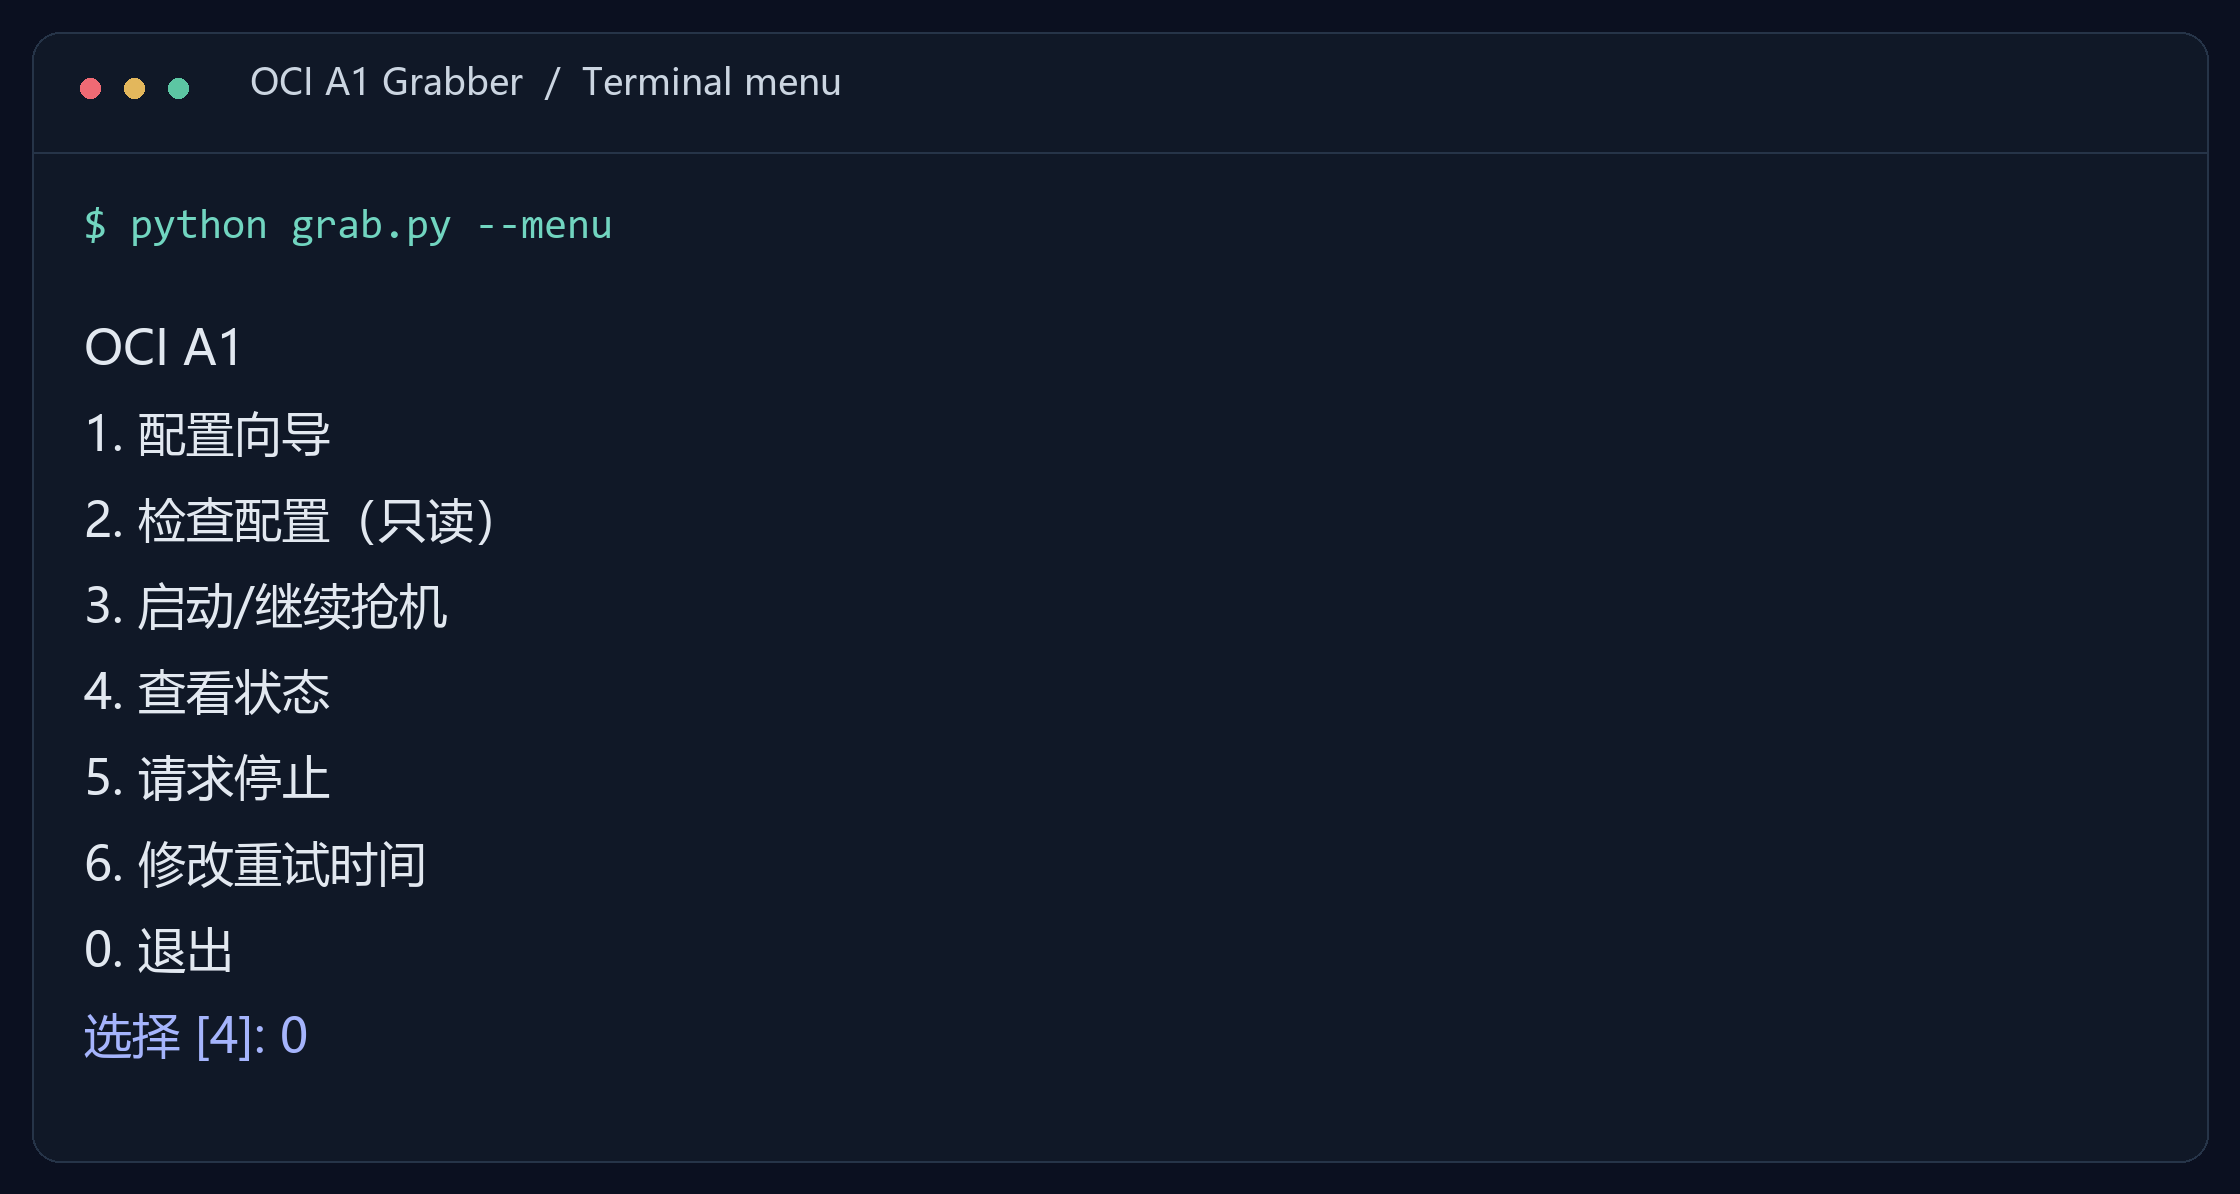
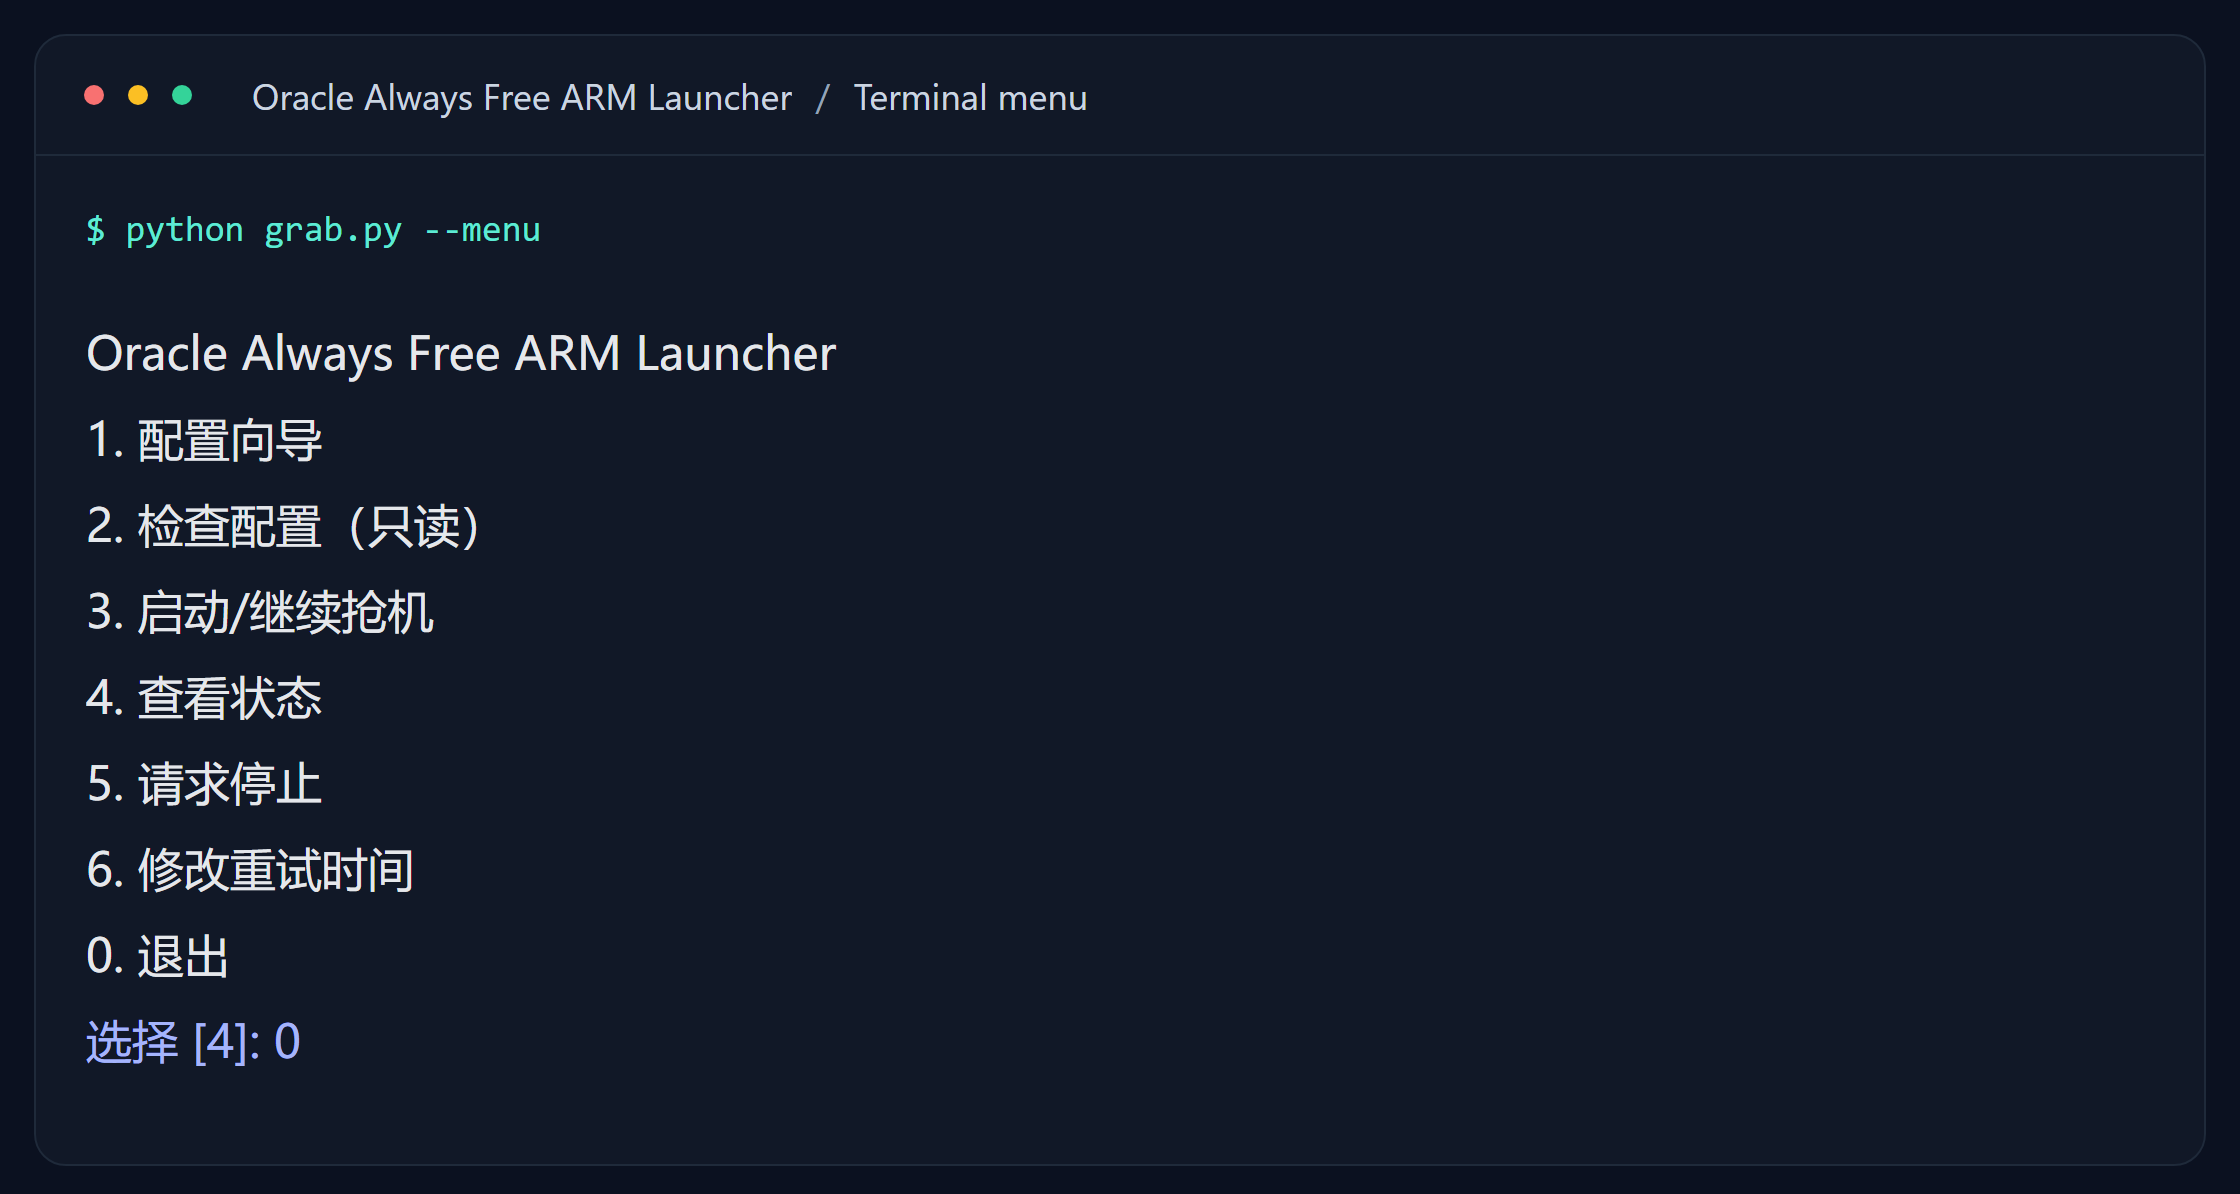
Show the new project name in the menu title and README screenshots

diff --git a/grab.py b/grab.py
@@ -2,7 +2,7 @@
 # SPDX-License-Identifier: Apache-2.0
 # Derived from Yohann0617/oci-helper, Copyright 2024 Yohann0617.
 # Modified: Python port of instance creation/retry logic; see NOTICE.txt.
-"""One-instance OCI A1 launcher. No AI, web server, database or telemetry."""
+"""Oracle Always Free ARM (Ampere A1) launcher: creates one instance. No AI, web server, database or telemetry."""
 from __future__ import annotations
 
 import argparse
@@ -540,7 +540,7 @@ def main(argv=None):
     for stream in (sys.stdout, sys.stderr):
         if hasattr(stream, "reconfigure"):
             stream.reconfigure(encoding="utf-8", errors="replace")
-    parser = argparse.ArgumentParser(description="精简 OCI A1 抢机：缺货重试，成功一台即停止，不调用 AI。")
+    parser = argparse.ArgumentParser(description="Oracle Always Free ARM 抢机：缺货重试，成功一台即停止，不调用 AI。")
     parser.add_argument("--config", default=str(Path(__file__).with_name("config.ini")))
     mode = parser.add_mutually_exclusive_group()
     mode.add_argument("--check", action="store_true", help="只读检查账户、网络、镜像和资源用量")

diff --git a/wizard.py b/wizard.py
@@ -236,7 +236,7 @@ def edit_timing(config_path):
 
 def menu(config_path):
     while True:
-        print("\nOCI A1\n1. 配置向导\n2. 检查配置（只读）\n3. 启动/继续抢机\n4. 查看状态\n5. 请求停止\n6. 修改重试时间\n0. 退出")
+        print("\nOracle Always Free ARM Launcher\n1. 配置向导\n2. 检查配置（只读）\n3. 启动/继续抢机\n4. 查看状态\n5. 请求停止\n6. 修改重试时间\n0. 退出")
         choice = prompt("选择", "1" if not Path(config_path).exists() else "4")
         if choice == "0":
             return 0
